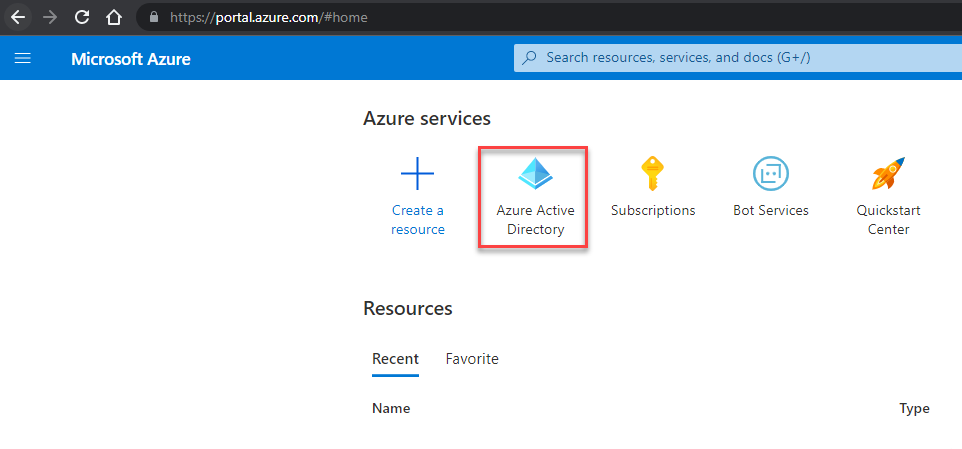
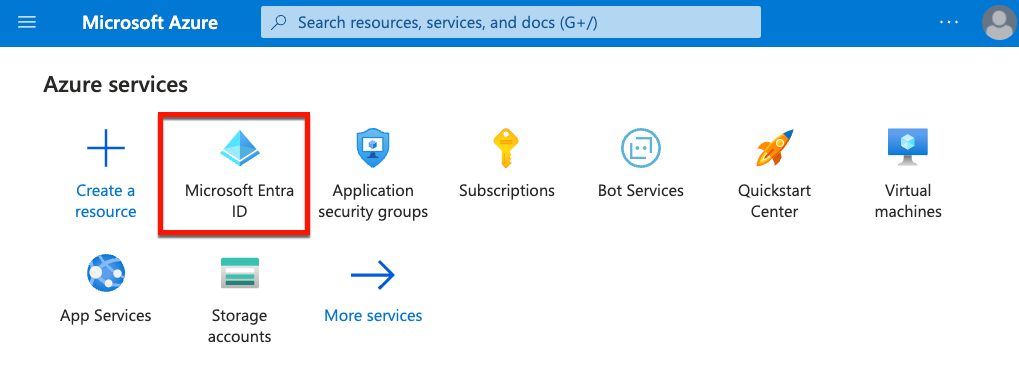
Update Azure AD to Microsoft Entra ID

diff --git a/docu/4-expert/send-emails-graph-api/README.md b/docu/4-expert/send-emails-graph-api/README.md
@@ -1,18 +1,17 @@
-# Send e-mails using Microsoft Graph
+d# Send e-mails using Microsoft Graph
 
 - **Kyma** ✅
 - **Cloud Foundry** ✅
 
 In this tutorial, you will learn how to send e-mails from your SaaS application using the Microsoft Graph API and Exchange Online. This can be useful in scenarios requiring automated messages sent to users from within your application. This is just one approach how to programmatically send e-mails using popular Microsoft services. Alternatively, you might think about configuring a destination to your SMTP server or using similar services offered by other providers like AWS Simple Email Service (SES) or SendGrid. 
 
-- [Send e-mails using Microsoft Graph](#send-e-mails-using-microsoft-graph)
-  - [1. Introduction](#1-introduction)
-  - [2. Prerequisites](#2-prerequisites)
-  - [3. Create a Shared Mailbox](#3-create-a-shared-mailbox)
-  - [4. Create an Application Registration](#4-create-an-application-registration)
-  - [5. Test the sample application](#5-test-the-sample-application)
-  - [6. Resource Owner Password Flow](#6-resource-owner-password-flow)
-  - [7. Further Information](#7-further-information)
+- [1. Introduction](#1-introduction)
+- [2. Prerequisites](#2-prerequisites)
+- [3. Create a Shared Mailbox](#3-create-a-shared-mailbox)
+- [4. Create an Application Registration](#4-create-an-application-registration)
+- [5. Test the sample application](#5-test-the-sample-application)
+- [6. Resource Owner Password Flow](#6-resource-owner-password-flow)
+- [7. Further Information](#7-further-information)
 
 > **Important** - The below sample approach works with a very powerful Graph API permission on Application-level. In a productive environment, this permission should be immediately restricted after setup, to prevent misuse by application developers. Otherwise, this setup allows anyone in possession of the respective credentials to send e-mails on behalf of any Active Directory user! Please follow the official Microsoft documentation ([click here](https://learn.microsoft.com/en-us/graph/auth-limit-mailbox-access)) to set up a corresponding restriction. 
 
@@ -36,7 +35,7 @@ Given all these security-related restrictions, Microsoft recommends switching to
 
 **Microsoft Azure**
 
-To create an application registration that can be used to send e-mails via Microsoft Graph, you will need an active Microsoft Azure account including an Azure Active Directory.  You can sign up for a free Microsoft Azure account here [https://azure.microsoft.com/en-in/free/](https://azure.microsoft.com/en-in/free/).
+To create an application registration that can be used to send e-mails via Microsoft Graph, you will need an active Microsoft Azure account including a Microsoft Entra ID (former Azure Active Directory).  You can sign up for a free Microsoft Azure account here [https://azure.microsoft.com/en-in/free/](https://azure.microsoft.com/en-in/free/).
 
 > **Hint** - For testing purposes, you can go with a free Azure account and you don't need a paid Azure subscription.
 
@@ -74,9 +73,9 @@ Each delegate user needs to have a valid license assigned that contains Exchange
 
 ## 4. Create an Application Registration
 
-You can use a standard Azure Active Directory **Application Registration** to send e-mails using the Microsoft Graph API. An application registration allows you to retrieve access tokens from Azure Active Directory for a certain scope (e.g., Microsoft Graph usage). The authorized scopes/permissions can be defined for each Application Registration. The process to create such an Application Registration is very simple. 
+You can use a standard Microsoft Entra ID (former Azure Active Directory) **Application Registration** to send e-mails using the Microsoft Graph API. An application registration allows you to retrieve access tokens from Microsoft Entra ID (former Azure Active Directory) for a certain scope (e.g., Microsoft Graph usage). The authorized scopes/permissions can be defined for each Application Registration. The process to create such an Application Registration is very simple. 
 
-4.1. Go to the [Azure Portal](https://portal.azure.com/#home) and access your Azure Active Directory instance.
+4.1. Go to the [Azure Portal](https://portal.azure.com/#home) and access your Microsoft Entra ID (former Azure Active Directory) instance.
 
 [<img src="./images/Azure_AppReg01.png" width="500" />](./images/Azure_AppReg01.png?raw=true)
 
